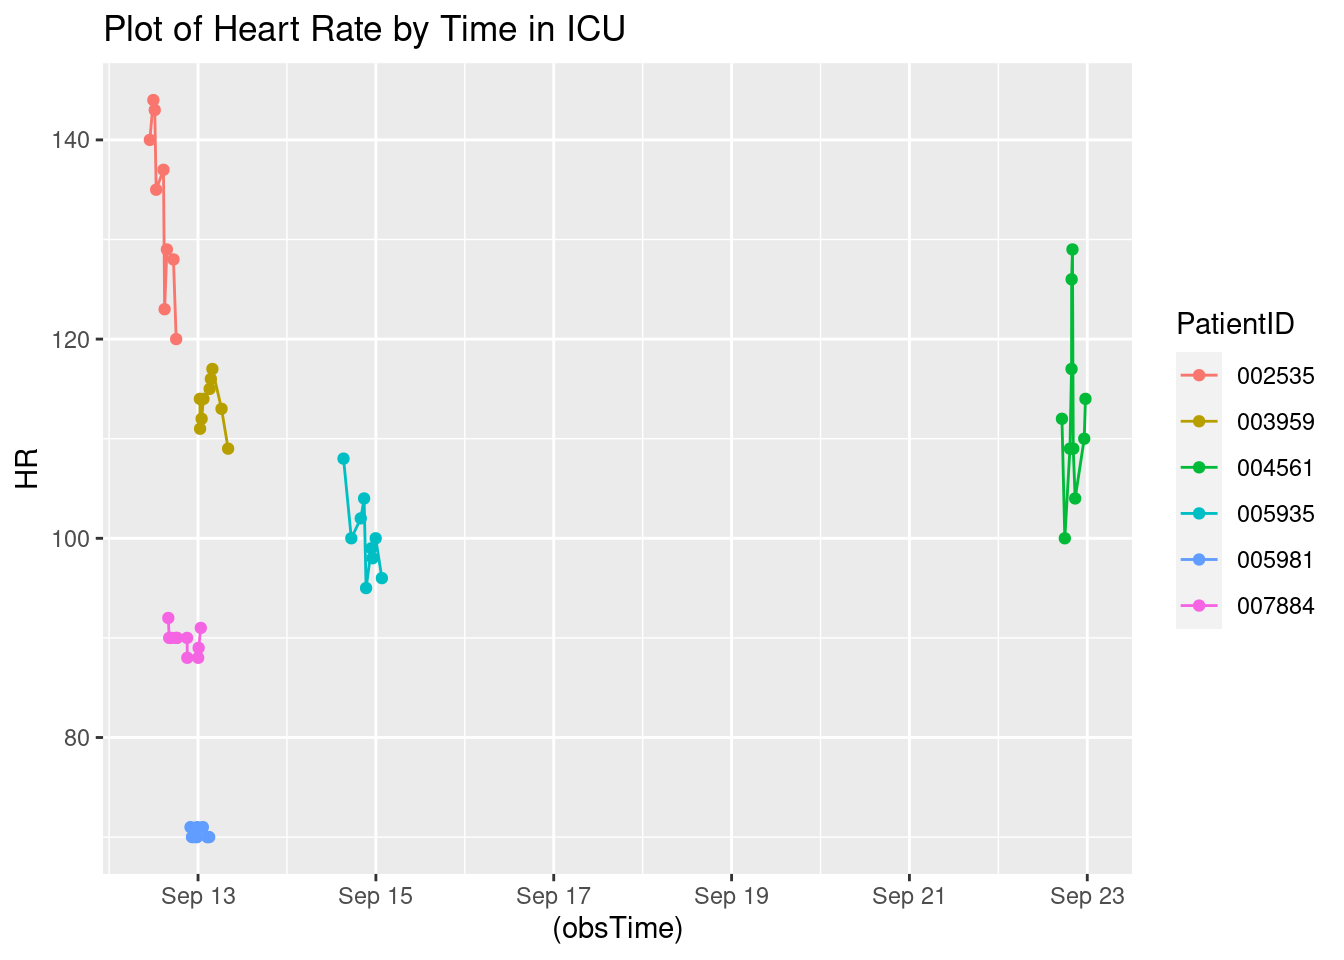
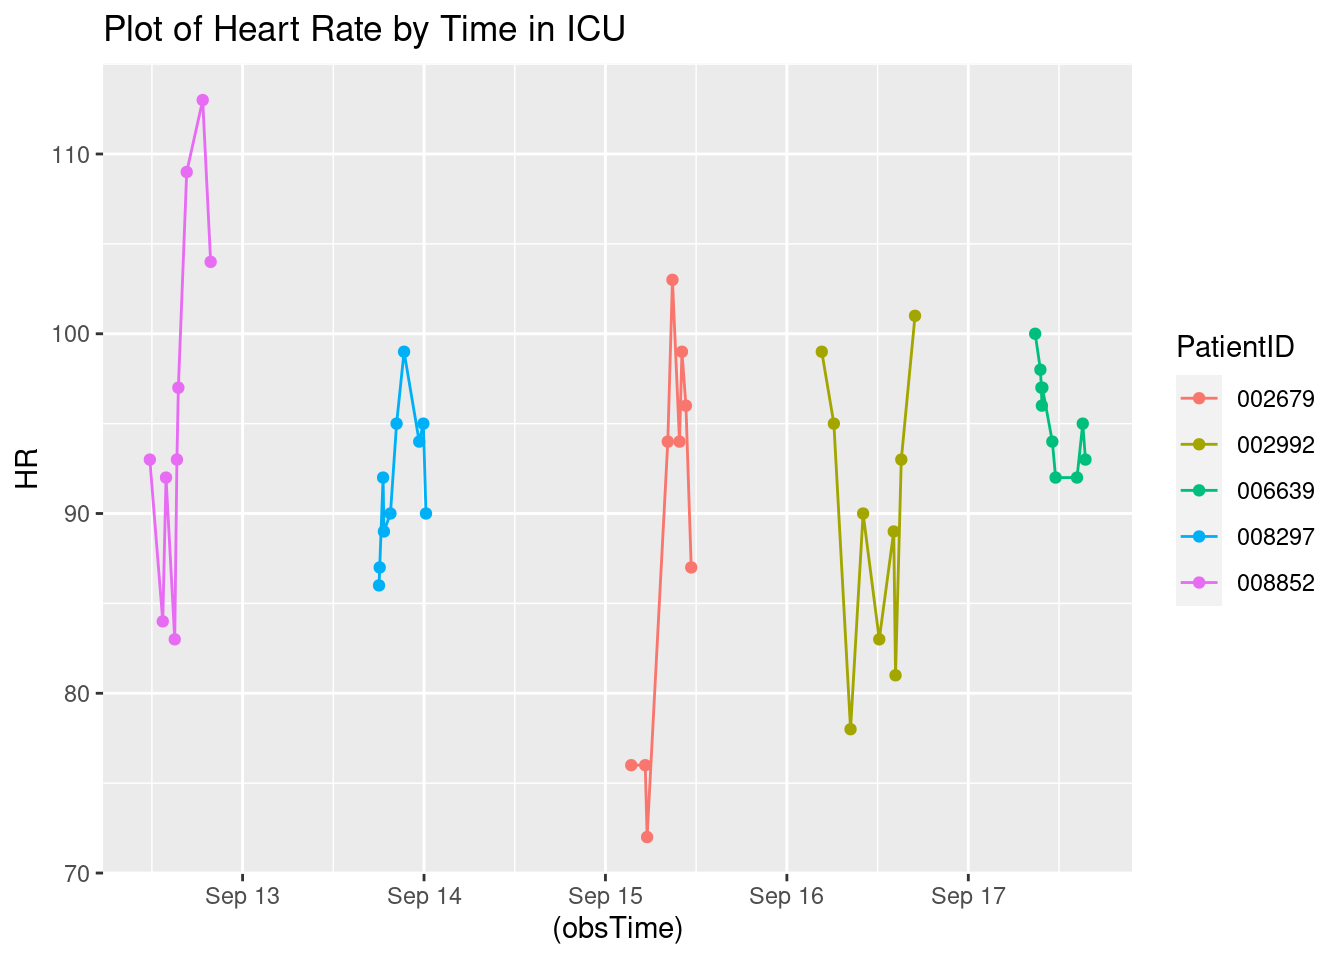
Updated report

diff --git a/A7.html b/A7.html
@@ -114,7 +114,7 @@ pre > code.sourceCode > span > a:first-child::before { text-decoration: underlin
 </div>
 <div class="sourceCode cell-code" id="cb4"><pre class="sourceCode r code-with-copy"><code class="sourceCode r"><span id="cb4-1"><a href="#cb4-1" aria-hidden="true" tabindex="-1"></a><span class="fu">toc</span>()</span></code><button title="Copy to Clipboard" class="code-copy-button"><i class="bi"></i></button></pre></div>
 <div class="cell-output cell-output-stdout">
-<pre><code>3.575 sec elapsed</code></pre>
+<pre><code>3.076 sec elapsed</code></pre>
 </div>
 <div class="sourceCode cell-code" id="cb6"><pre class="sourceCode r code-with-copy"><code class="sourceCode r"><span id="cb6-1"><a href="#cb6-1" aria-hidden="true" tabindex="-1"></a><span class="fu">tic</span>()</span>
 <span id="cb6-2"><a href="#cb6-2" aria-hidden="true" tabindex="-1"></a>test1<span class="ot">=</span><span class="fu">makeSepsisDataset</span>(<span class="at">n=</span><span class="dv">50</span>,<span class="at">read_fn =</span> <span class="st">"read_delim"</span>)</span>
@@ -124,7 +124,7 @@ pre > code.sourceCode > span > a:first-child::before { text-decoration: underlin
 </div>
 <div class="sourceCode cell-code" id="cb8"><pre class="sourceCode r code-with-copy"><code class="sourceCode r"><span id="cb8-1"><a href="#cb8-1" aria-hidden="true" tabindex="-1"></a><span class="fu">toc</span>()</span></code><button title="Copy to Clipboard" class="code-copy-button"><i class="bi"></i></button></pre></div>
 <div class="cell-output cell-output-stdout">
-<pre><code>15.674 sec elapsed</code></pre>
+<pre><code>14.52 sec elapsed</code></pre>
 </div>
 <div class="sourceCode cell-code" id="cb10"><pre class="sourceCode r code-with-copy"><code class="sourceCode r"><span id="cb10-1"><a href="#cb10-1" aria-hidden="true" tabindex="-1"></a><span class="co"># n=100</span></span>
 <span id="cb10-2"><a href="#cb10-2" aria-hidden="true" tabindex="-1"></a><span class="fu">tic</span>()</span>
@@ -135,7 +135,7 @@ pre > code.sourceCode > span > a:first-child::before { text-decoration: underlin
 </div>
 <div class="sourceCode cell-code" id="cb12"><pre class="sourceCode r code-with-copy"><code class="sourceCode r"><span id="cb12-1"><a href="#cb12-1" aria-hidden="true" tabindex="-1"></a><span class="fu">toc</span>()</span></code><button title="Copy to Clipboard" class="code-copy-button"><i class="bi"></i></button></pre></div>
 <div class="cell-output cell-output-stdout">
-<pre><code>5.964 sec elapsed</code></pre>
+<pre><code>5.222 sec elapsed</code></pre>
 </div>
 <div class="sourceCode cell-code" id="cb14"><pre class="sourceCode r code-with-copy"><code class="sourceCode r"><span id="cb14-1"><a href="#cb14-1" aria-hidden="true" tabindex="-1"></a><span class="fu">tic</span>()</span>
 <span id="cb14-2"><a href="#cb14-2" aria-hidden="true" tabindex="-1"></a>test1<span class="ot">=</span><span class="fu">makeSepsisDataset</span>(<span class="at">n=</span><span class="dv">100</span>,<span class="at">read_fn =</span> <span class="st">"read_delim"</span>)</span>
@@ -145,7 +145,7 @@ pre > code.sourceCode > span > a:first-child::before { text-decoration: underlin
 </div>
 <div class="sourceCode cell-code" id="cb16"><pre class="sourceCode r code-with-copy"><code class="sourceCode r"><span id="cb16-1"><a href="#cb16-1" aria-hidden="true" tabindex="-1"></a><span class="fu">toc</span>()</span></code><button title="Copy to Clipboard" class="code-copy-button"><i class="bi"></i></button></pre></div>
 <div class="cell-output cell-output-stdout">
-<pre><code>22.87 sec elapsed</code></pre>
+<pre><code>21.489 sec elapsed</code></pre>
 </div>
 <div class="sourceCode cell-code" id="cb18"><pre class="sourceCode r code-with-copy"><code class="sourceCode r"><span id="cb18-1"><a href="#cb18-1" aria-hidden="true" tabindex="-1"></a><span class="co"># n=500</span></span>
 <span id="cb18-2"><a href="#cb18-2" aria-hidden="true" tabindex="-1"></a><span class="fu">tic</span>()</span>
@@ -156,7 +156,7 @@ pre > code.sourceCode > span > a:first-child::before { text-decoration: underlin
 </div>
 <div class="sourceCode cell-code" id="cb20"><pre class="sourceCode r code-with-copy"><code class="sourceCode r"><span id="cb20-1"><a href="#cb20-1" aria-hidden="true" tabindex="-1"></a><span class="fu">toc</span>()</span></code><button title="Copy to Clipboard" class="code-copy-button"><i class="bi"></i></button></pre></div>
 <div class="cell-output cell-output-stdout">
-<pre><code>29.984 sec elapsed</code></pre>
+<pre><code>26.599 sec elapsed</code></pre>
 </div>
 <div class="sourceCode cell-code" id="cb22"><pre class="sourceCode r code-with-copy"><code class="sourceCode r"><span id="cb22-1"><a href="#cb22-1" aria-hidden="true" tabindex="-1"></a><span class="fu">tic</span>()</span>
 <span id="cb22-2"><a href="#cb22-2" aria-hidden="true" tabindex="-1"></a>test1<span class="ot">=</span><span class="fu">makeSepsisDataset</span>(<span class="at">n=</span><span class="dv">500</span>,<span class="at">read_fn =</span> <span class="st">"read_delim"</span>)</span>
@@ -166,7 +166,7 @@ pre > code.sourceCode > span > a:first-child::before { text-decoration: underlin
 </div>
 <div class="sourceCode cell-code" id="cb24"><pre class="sourceCode r code-with-copy"><code class="sourceCode r"><span id="cb24-1"><a href="#cb24-1" aria-hidden="true" tabindex="-1"></a><span class="fu">toc</span>()</span></code><button title="Copy to Clipboard" class="code-copy-button"><i class="bi"></i></button></pre></div>
 <div class="cell-output cell-output-stdout">
-<pre><code>114.508 sec elapsed</code></pre>
+<pre><code>104.445 sec elapsed</code></pre>
 </div>
 </div>
 <p><strong>Task 3</strong></p>
@@ -192,7 +192,7 @@ pre > code.sourceCode > span > a:first-child::before { text-decoration: underlin
 <span id="cb28-4"><a href="#cb28-4" aria-hidden="true" tabindex="-1"></a></span>
 <span id="cb28-5"><a href="#cb28-5" aria-hidden="true" tabindex="-1"></a><span class="fu">Sys.time</span>()</span></code><button title="Copy to Clipboard" class="code-copy-button"><i class="bi"></i></button></pre></div>
 <div class="cell-output cell-output-stdout">
-<pre><code>[1] "2023-09-12 08:24:03 UTC"</code></pre>
+<pre><code>[1] "2023-09-12 09:19:30 UTC"</code></pre>
 </div>
 <div class="sourceCode cell-code" id="cb30"><pre class="sourceCode r code-with-copy"><code class="sourceCode r"><span id="cb30-1"><a href="#cb30-1" aria-hidden="true" tabindex="-1"></a>dfnew <span class="ot">&lt;-</span> df <span class="sc">%&gt;%</span></span>
 <span id="cb30-2"><a href="#cb30-2" aria-hidden="true" tabindex="-1"></a>  <span class="fu">subset</span>(SepsisLabel<span class="sc">==</span><span class="dv">1</span>)</span>
@@ -221,58 +221,49 @@ pre > code.sourceCode > span > a:first-child::before { text-decoration: underlin
 </thead>
 <tbody>
 <tr class="odd">
-<td style="text-align: left;">002535</td>
-<td style="text-align: right;">10</td>
-<td style="text-align: right;">120</td>
-<td style="text-align: right;">37.94</td>
-<td style="text-align: right;">18</td>
+<td style="text-align: left;">002679</td>
+<td style="text-align: right;">77</td>
+<td style="text-align: right;">87</td>
+<td style="text-align: right;">NA</td>
+<td style="text-align: right;">16</td>
 <td style="text-align: right;">1</td>
-<td style="text-align: left;">2023-09-12 18:06:08</td>
+<td style="text-align: left;">2023-09-15 11:20:50</td>
 </tr>
 <tr class="even">
-<td style="text-align: left;">003959</td>
-<td style="text-align: right;">24</td>
-<td style="text-align: right;">109</td>
+<td style="text-align: left;">002992</td>
+<td style="text-align: right;">105</td>
+<td style="text-align: right;">101</td>
 <td style="text-align: right;">NA</td>
-<td style="text-align: right;">NA</td>
+<td style="text-align: right;">33</td>
 <td style="text-align: right;">1</td>
-<td style="text-align: left;">2023-09-13 08:07:09</td>
+<td style="text-align: left;">2023-09-16 16:57:03</td>
 </tr>
 <tr class="odd">
-<td style="text-align: left;">004561</td>
-<td style="text-align: right;">256</td>
-<td style="text-align: right;">114</td>
+<td style="text-align: left;">006639</td>
+<td style="text-align: right;">127</td>
+<td style="text-align: right;">93</td>
 <td style="text-align: right;">NA</td>
-<td style="text-align: right;">30</td>
-<td style="text-align: right;">1</td>
-<td style="text-align: left;">2023-09-22 23:30:41</td>
-</tr>
-<tr class="even">
-<td style="text-align: left;">005935</td>
-<td style="text-align: right;">66</td>
-<td style="text-align: right;">96</td>
-<td style="text-align: right;">38.11</td>
 <td style="text-align: right;">28</td>
 <td style="text-align: right;">1</td>
-<td style="text-align: left;">2023-09-15 01:36:53</td>
-</tr>
-<tr class="odd">
-<td style="text-align: left;">005981</td>
-<td style="text-align: right;">19</td>
-<td style="text-align: right;">70</td>
-<td style="text-align: right;">NA</td>
-<td style="text-align: right;">23</td>
-<td style="text-align: right;">1</td>
-<td style="text-align: left;">2023-09-13 02:59:53</td>
+<td style="text-align: left;">2023-09-17 15:29:52</td>
 </tr>
 <tr class="even">
-<td style="text-align: left;">007884</td>
+<td style="text-align: left;">008297</td>
+<td style="text-align: right;">39</td>
+<td style="text-align: right;">90</td>
+<td style="text-align: right;">NA</td>
 <td style="text-align: right;">17</td>
-<td style="text-align: right;">91</td>
+<td style="text-align: right;">1</td>
+<td style="text-align: left;">2023-09-14 00:15:44</td>
+</tr>
+<tr class="odd">
+<td style="text-align: left;">008852</td>
+<td style="text-align: right;">12</td>
+<td style="text-align: right;">104</td>
 <td style="text-align: right;">NA</td>
 <td style="text-align: right;">24</td>
 <td style="text-align: right;">1</td>
-<td style="text-align: left;">2023-09-13 00:44:28</td>
+<td style="text-align: left;">2023-09-12 19:46:27</td>
 </tr>
 </tbody>
 </table>
